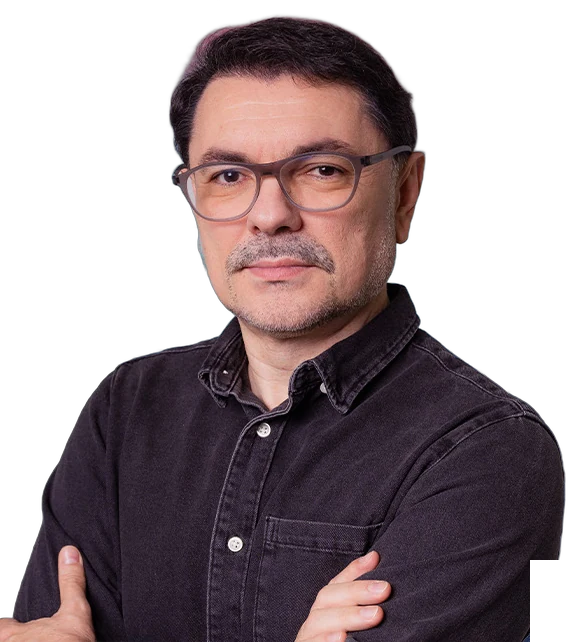
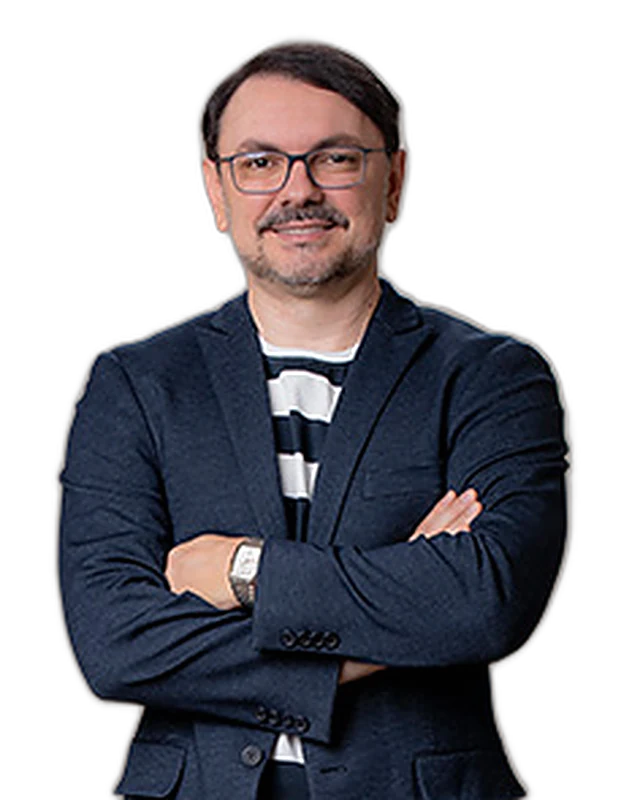
Troca fotos dos palestrantes e corrige grafia de Rossandro Klinjey
Claude-Session: https://claude.ai/code/session_01P6SLFSnrbDPpuvp6goeQ4B

diff --git a/sertao-negocios/index.html b/sertao-negocios/index.html
@@ -4,7 +4,7 @@
   <meta charset="utf-8">
   <meta name="viewport" content="width=device-width, initial-scale=1, viewport-fit=cover">
   <title>Sertão Negócios 2026 · 03 e 04 de dezembro · Patos-PB</title>
-  <meta name="description" content="Sertão Negócios 2026: dois dias de palestras com Rick Chester, Rossandro Klinge e Moisés Ramos, cases reais de empresários do Sertão, networking e área de estandes. 03 e 04 de dezembro, auditório do Sebrae em Patos-PB.">
+  <meta name="description" content="Sertão Negócios 2026: dois dias de palestras com Rick Chester, Rossandro Klinjey e Moisés Ramos, cases reais de empresários do Sertão, networking e área de estandes. 03 e 04 de dezembro, auditório do Sebrae em Patos-PB.">
   <meta name="theme-color" content="#0b0e3f">
   <link rel="canonical" href="./">
 
@@ -44,7 +44,7 @@
     },
     "performer": [
       { "@type": "Person", "name": "Rick Chester" },
-      { "@type": "Person", "name": "Rossandro Klinge" },
+      { "@type": "Person", "name": "Rossandro Klinjey" },
       { "@type": "Person", "name": "Moisés Ramos" }
     ],
     "organizer": [
@@ -381,7 +381,7 @@
           <svg class="benefit__icon" viewBox="0 0 64 64" aria-hidden="true"><g class="draw" fill="none" stroke="currentColor" stroke-width="2.5" stroke-linecap="round" stroke-linejoin="round"><rect x="24" y="6" width="16" height="28" rx="8"/><path d="M16 28a16 16 0 0 0 32 0M32 44v12M22 58h20"/></g></svg>
           <div>
             <h3>Conteúdo de referência nacional</h3>
-            <p>Palestras de grande porte com Rick Chester e Rossandro Klinge, ao alcance do empresário local.</p>
+            <p>Palestras de grande porte com Rick Chester e Rossandro Klinjey, ao alcance do empresário local.</p>
           </div>
         </li>
         <li class="benefit" data-reveal>
@@ -432,7 +432,7 @@
       <div class="speakers__grid">
         <article class="speaker speaker--a" data-speaker>
           <div class="speaker__frame" data-speed="-0.06">
-            <img src="assets/img/speaker-rick.webp" alt="Rick Chester" width="372" height="614" loading="lazy" decoding="async">
+            <img src="assets/img/speaker-rick.webp" alt="Rick Chester" width="640" height="800" loading="lazy" decoding="async">
           </div>
           <div class="speaker__info">
             <p class="speaker__role">Palestrante principal</p>
@@ -442,17 +442,17 @@
 
         <article class="speaker speaker--b" data-speaker>
           <div class="speaker__frame" data-speed="0.04">
-            <img src="assets/img/speaker-rossandro.webp" alt="Rossandro Klinge" width="570" height="642" loading="lazy" decoding="async">
+            <img src="assets/img/speaker-rossandro.webp" alt="Rossandro Klinjey" width="640" height="800" loading="lazy" decoding="async">
           </div>
           <div class="speaker__info">
             <p class="speaker__role">Palestrante principal</p>
-            <h3 class="speaker__name">Rossandro<br>Klinge</h3>
+            <h3 class="speaker__name">Rossandro<br>Klinjey</h3>
           </div>
         </article>
 
         <article class="speaker speaker--c" data-speaker>
           <div class="speaker__frame" data-speed="-0.03">
-            <img src="assets/img/speaker-moises.webp" alt="Moisés Ramos" width="426" height="628" loading="lazy" decoding="async">
+            <img src="assets/img/speaker-moises.webp" alt="Moisés Ramos" width="640" height="800" loading="lazy" decoding="async">
           </div>
           <div class="speaker__info">
             <p class="speaker__role">Idealizador do Sertão Negócios</p>
@@ -662,7 +662,7 @@
         <ul class="signup__facts" data-reveal>
           <li><svg aria-hidden="true"><use href="#i-check"/></svg>03 e 04 de dezembro de 2026</li>
           <li><svg aria-hidden="true"><use href="#i-check"/></svg>Auditório do Sebrae, Patos-PB</li>
-          <li><svg aria-hidden="true"><use href="#i-check"/></svg>Rick Chester, Rossandro Klinge e Moisés Ramos</li>
+          <li><svg aria-hidden="true"><use href="#i-check"/></svg>Rick Chester, Rossandro Klinjey e Moisés Ramos</li>
           <li><svg aria-hidden="true"><use href="#i-check"/></svg>10 cases de empresários da região</li>
         </ul>
       </div>
